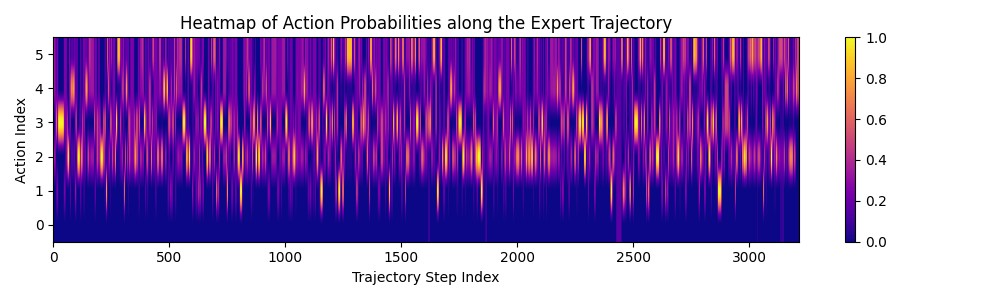
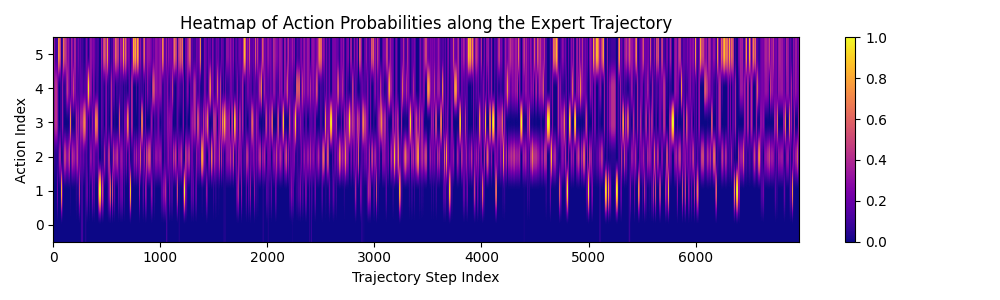
commit

diff --git a/test.py b/test.py
@@ -41,8 +41,8 @@ actions_medauroidea = trajectory_dirvel_medauroidea[:, 1].astype(int)
 # the policy used
 q_values = q_value_dirvel_carausius
 # the test source
-state_indices = state_indices_dirvel_aretaon
-actions = actions_aretaon
+state_indices = state_indices_dirvel_medauroidea
+actions = actions_medauroidea
 
 replicated_trajectory = []
 for i in range(len(state_indices)):
